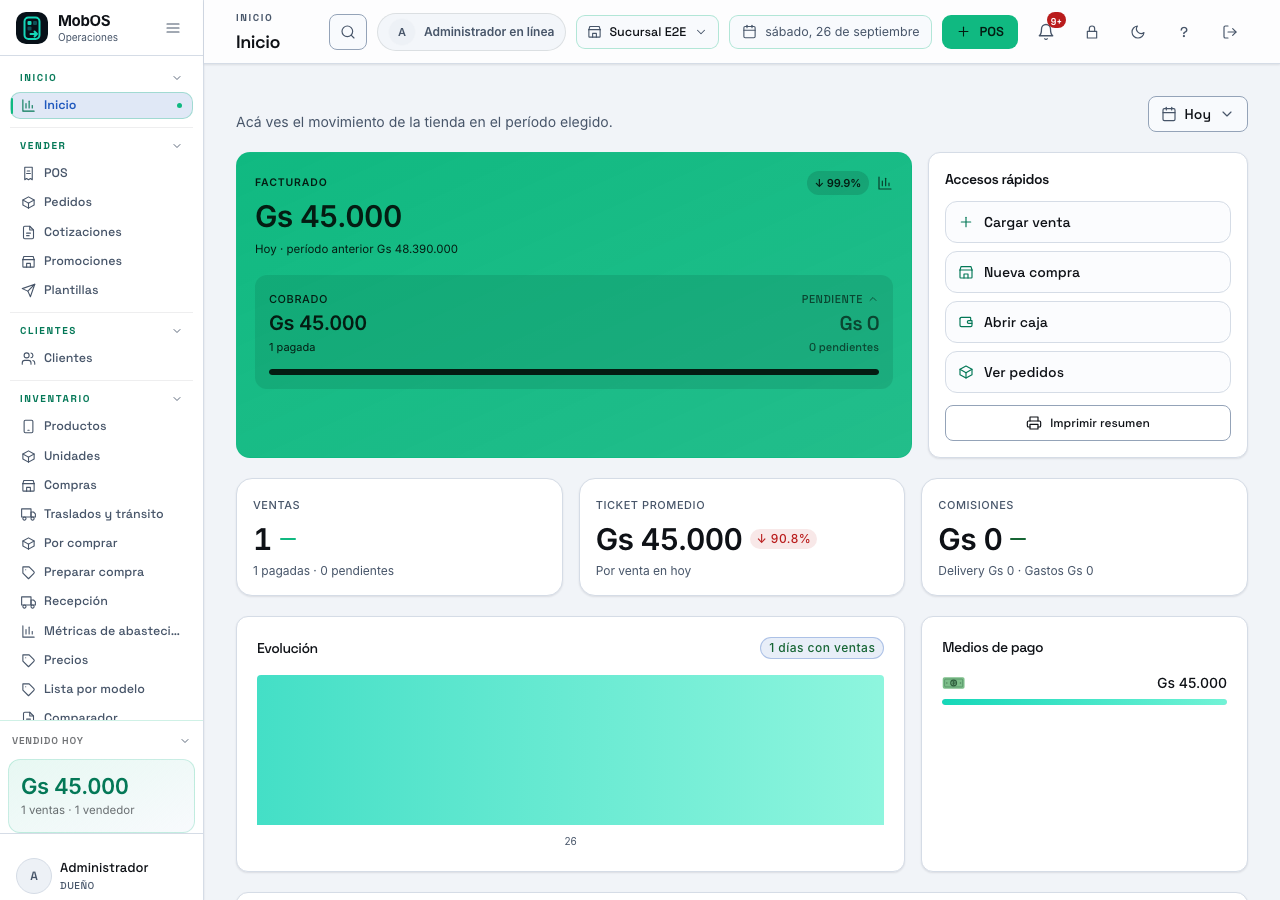
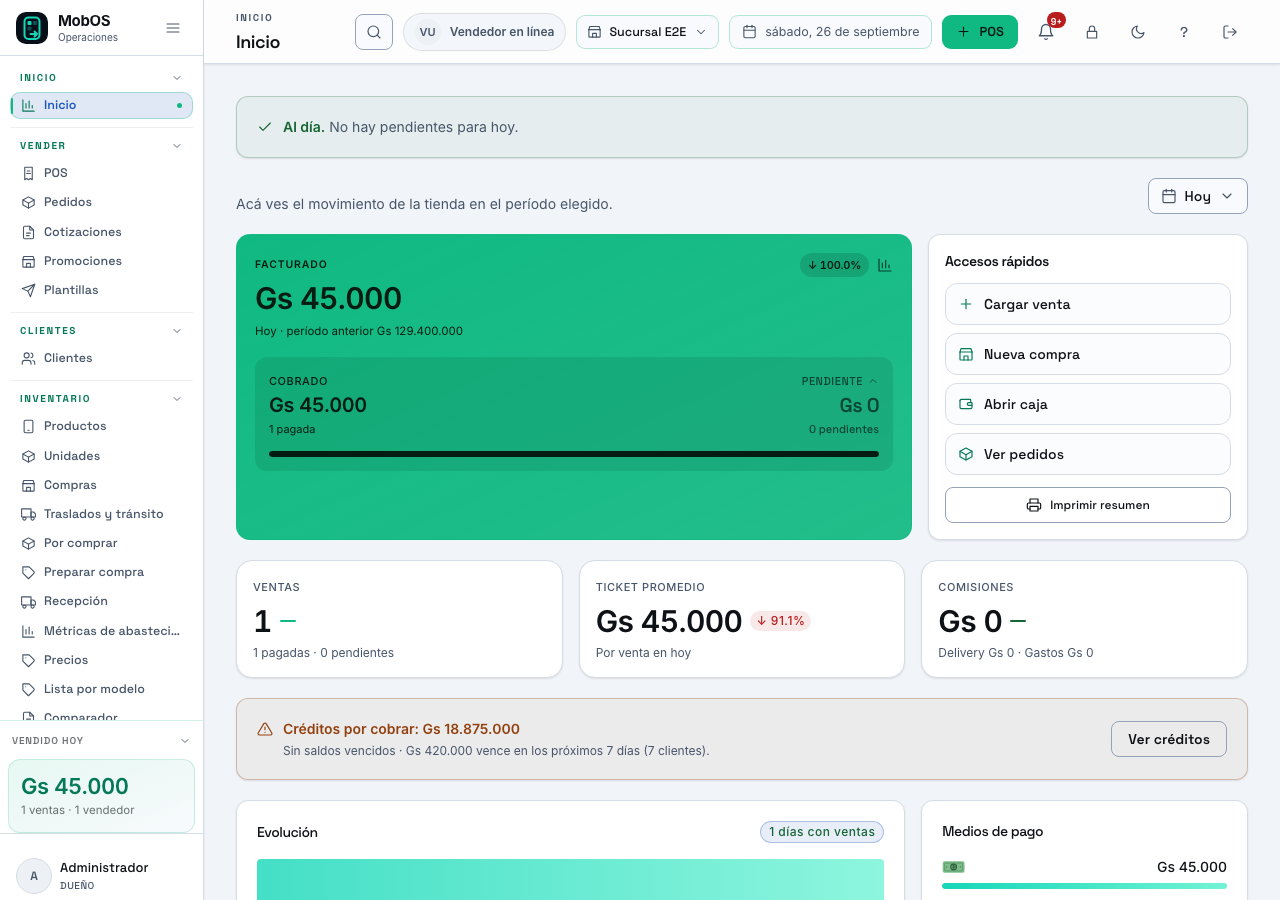
test(shell): verificación de producción de #266 y recuento de la racha CI (Refs #266, #245)
- scripts/qa-266-header-produccion.mjs: entra por la demo pública y verifica el
  header nuevo (candado, chip → Mi perfil, sin chips retirados); sale 2 cuando
  la producción todavía sirve el header anterior (pendiente de deploy).
- Evidencia de hoy: producción v1.0.188 sin #266 → pendiente-deploy con captura
  y resultados.json en docs/qa/266-shell-header/produccion/.
- REPORTE #245: recuento oficial 1/3 (v1.0.188 verde completa tras el rojo de
  v1.0.187) con las dos causas raíz corregidas en b05a9e2e.
- Capturas del header regeneradas con la biblioteca de main (v0.43.0).

Changed region(s): [[0.1875, 0.1244, 0.9688, 1.0], [0.25, 0.0311, 0.375, 0.0622]]

diff --git a/docs/qa/245-ci/REPORTE.md b/docs/qa/245-ci/REPORTE.md
@@ -55,3 +55,39 @@ componente es del dominio FIN — avisado en el issue).
   corregidas, comentario de cierre en el issue). Con el historial de hoy, la
   meta de **3 corridas completas verdes consecutivas** todavía no se repite:
   faltan **2**.
+
+## Actualización 27/09 (madrugada) — recuento oficial
+
+`node scripts/qa-ci-racha.mjs --minimo 3` → **1 corrida completa verde
+consecutiva** en `main`:
+
+- ✓ `36283548443` · `5360ecb` · **v1.0.188** (5/5 jobs: Frontend, Backend,
+  Integración y los 3 shards E2E).
+- ✘ `36282723046` · `b0b1602` · v1.0.187 (corta la racha; causas abajo).
+- ✓ `36254718751` · `800199d` (verde previa al rojo).
+
+**Faltan 2 verdes** para repetir la meta de 3 corridas completas consecutivas;
+las suman los pushes del integrador a `main` (no vale re-run ciego ni
+cuarentena). El issue #245 sigue **cerrado** con su racha original documentada.
+
+### Causas raíz del rojo v1.0.187 (corregidas en v1.0.188, `b05a9e2e`)
+
+1. **E2E 1/3 · `dsn-responsive-mobile`** («demo-pos 390: ningún target < 44»):
+   el botón «Elegir unidad (2)» de la guía del POS medía **118×32**; quedó con
+   área de 44 en `PasoCobro`.
+2. **E2E 3/3 · `demo-anonimo`** («Venta registrada correctamente» no aparecía):
+   la guía del demo mostraba el paso del accesorio; spec ajustado en el mismo
+   commit.
+
+Con la corrección, la corrida de v1.0.188 quedó **verde completa** (5/5 jobs).
+
+### Verificación de #266 en producción — pendiente de deploy
+
+- Script nuevo: `node scripts/qa-266-header-produccion.mjs` (entra por la demo
+  pública). Verifica candado de bloqueo, chip → Mi perfil y ausencia de los
+  chips retirados; sale 0 si verifica, **2 si todavía no está desplegado**.
+- Resultado de hoy: **PENDIENTE DE DEPLOY** — producción sirve **v1.0.188** con
+  el header anterior (`menu-acciones`). Evidencia:
+  `docs/qa/266-shell-header/produccion/` (`resultados.json` + captura).
+- #266 vive en `slot/plataforma` (aún no mergeado): el script queda listo para
+  correr después del release que lo incluya.
